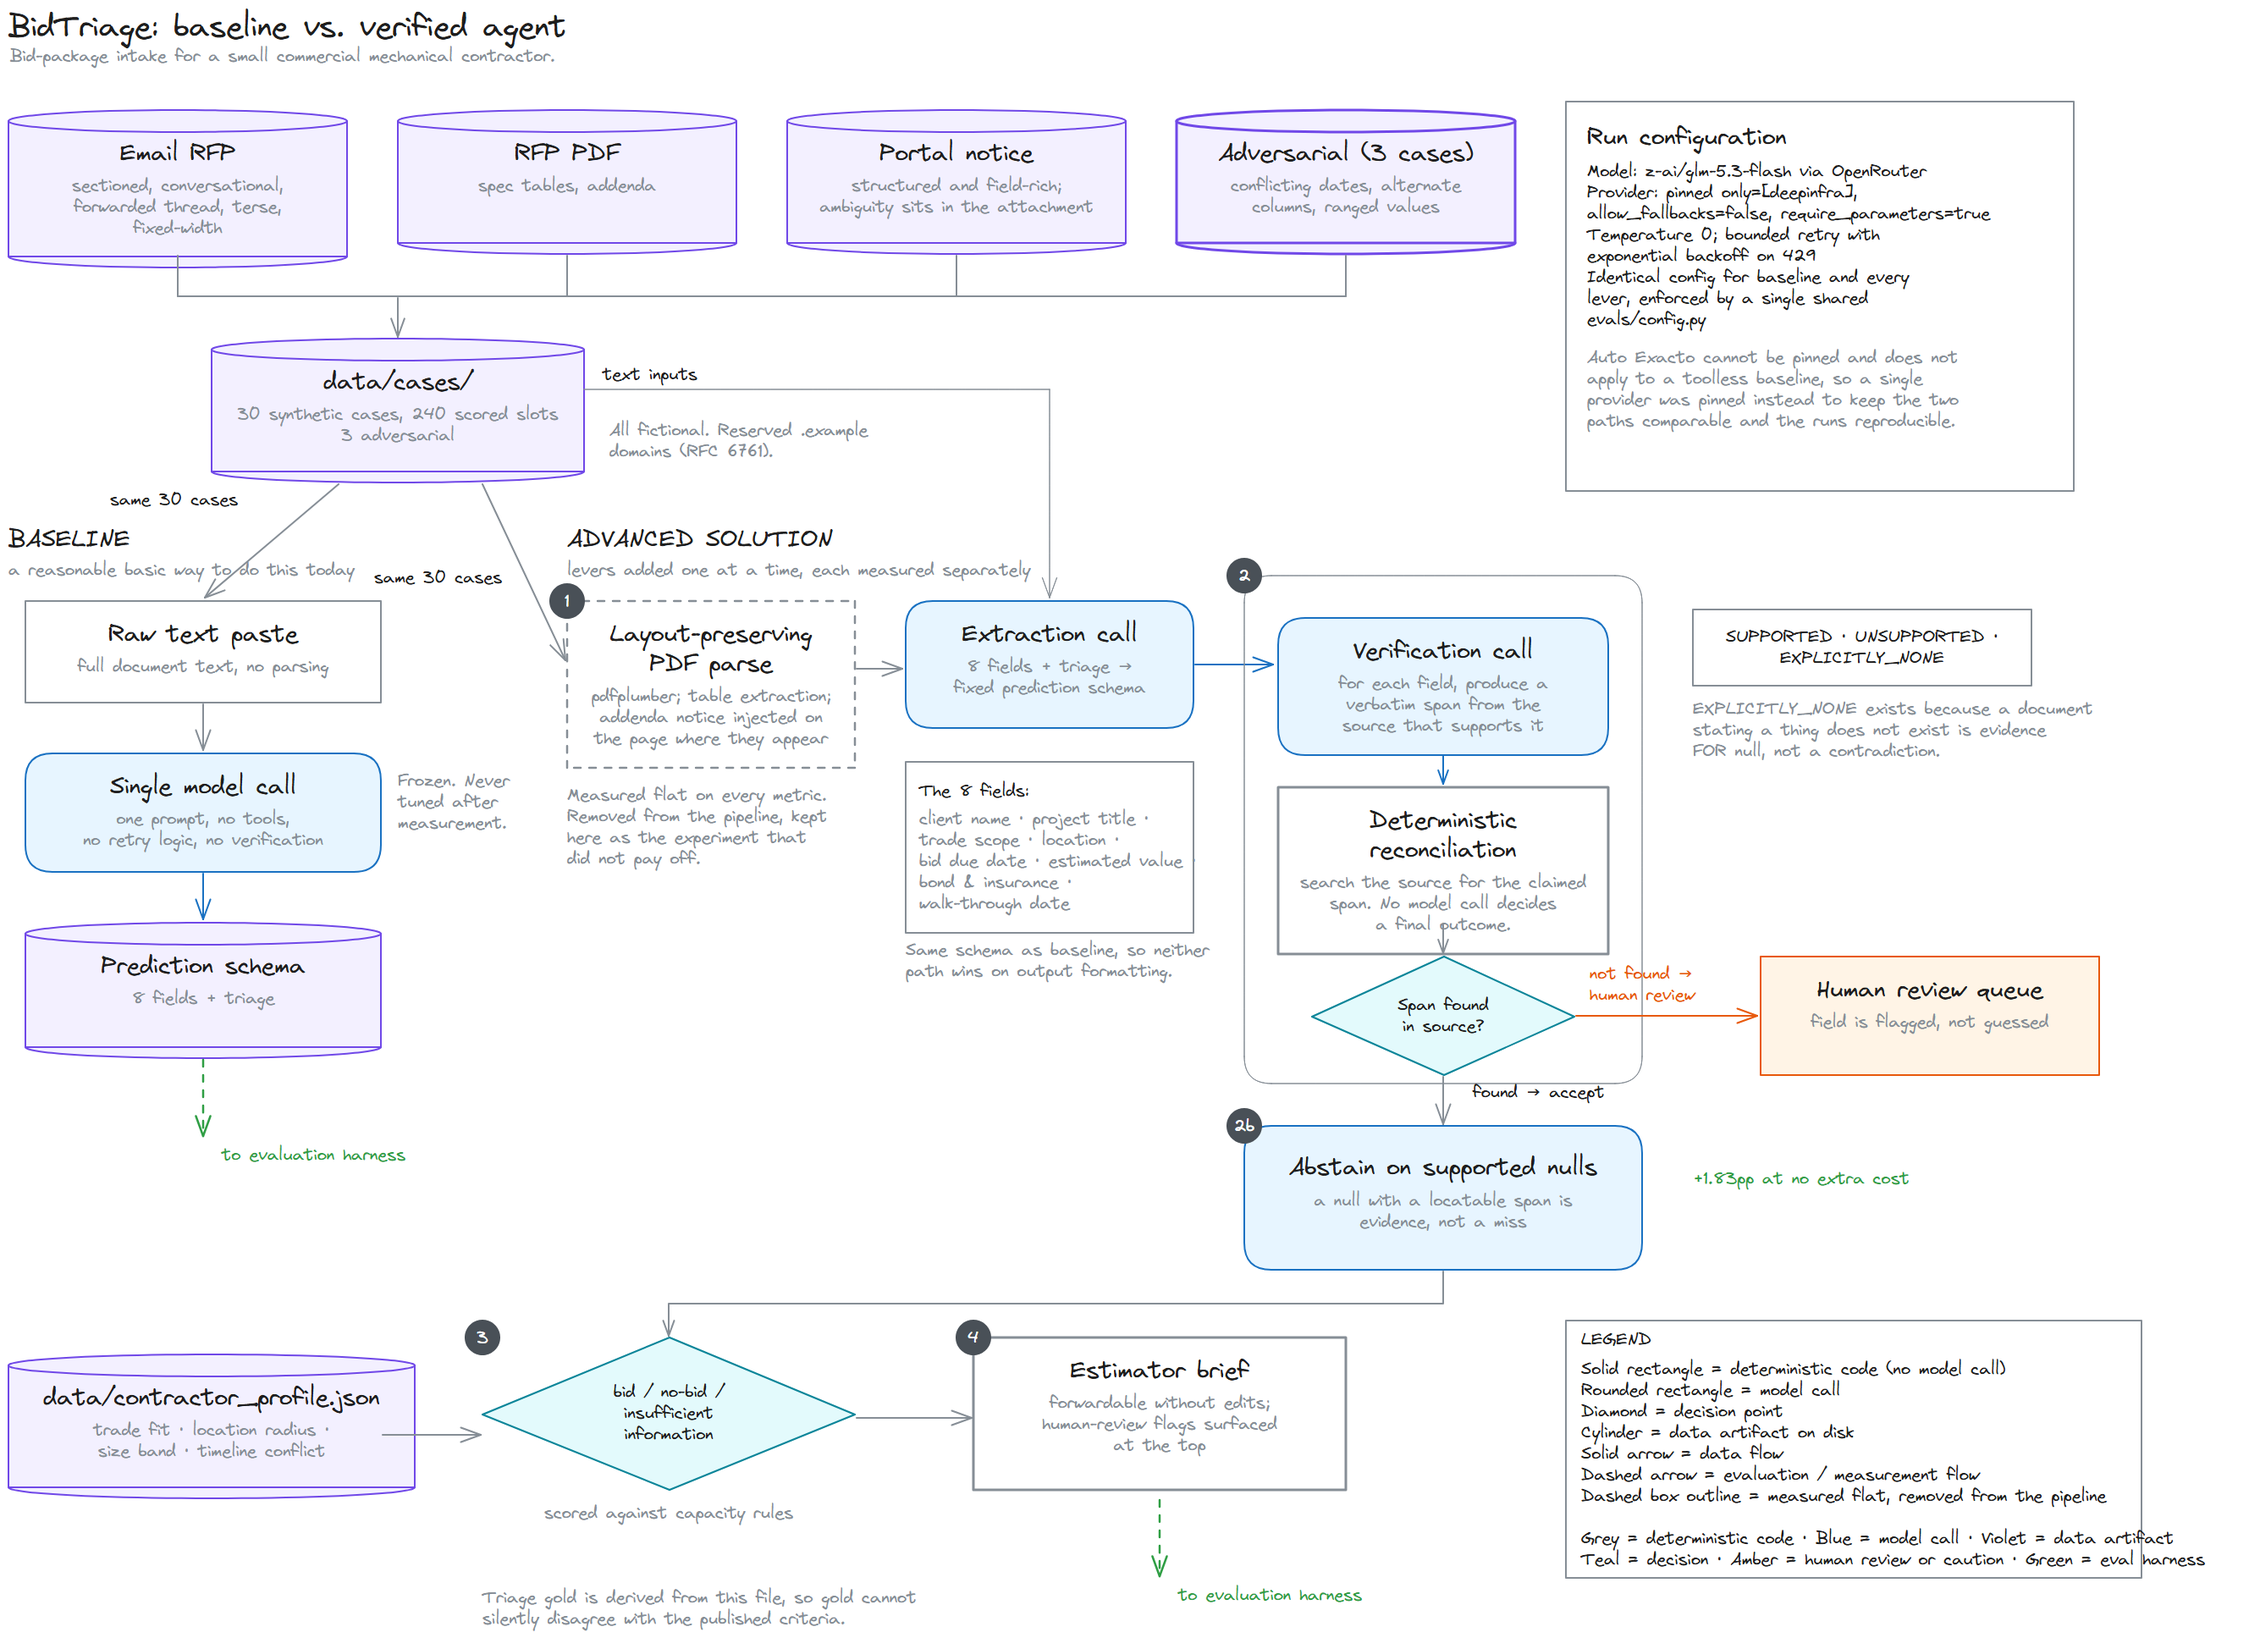
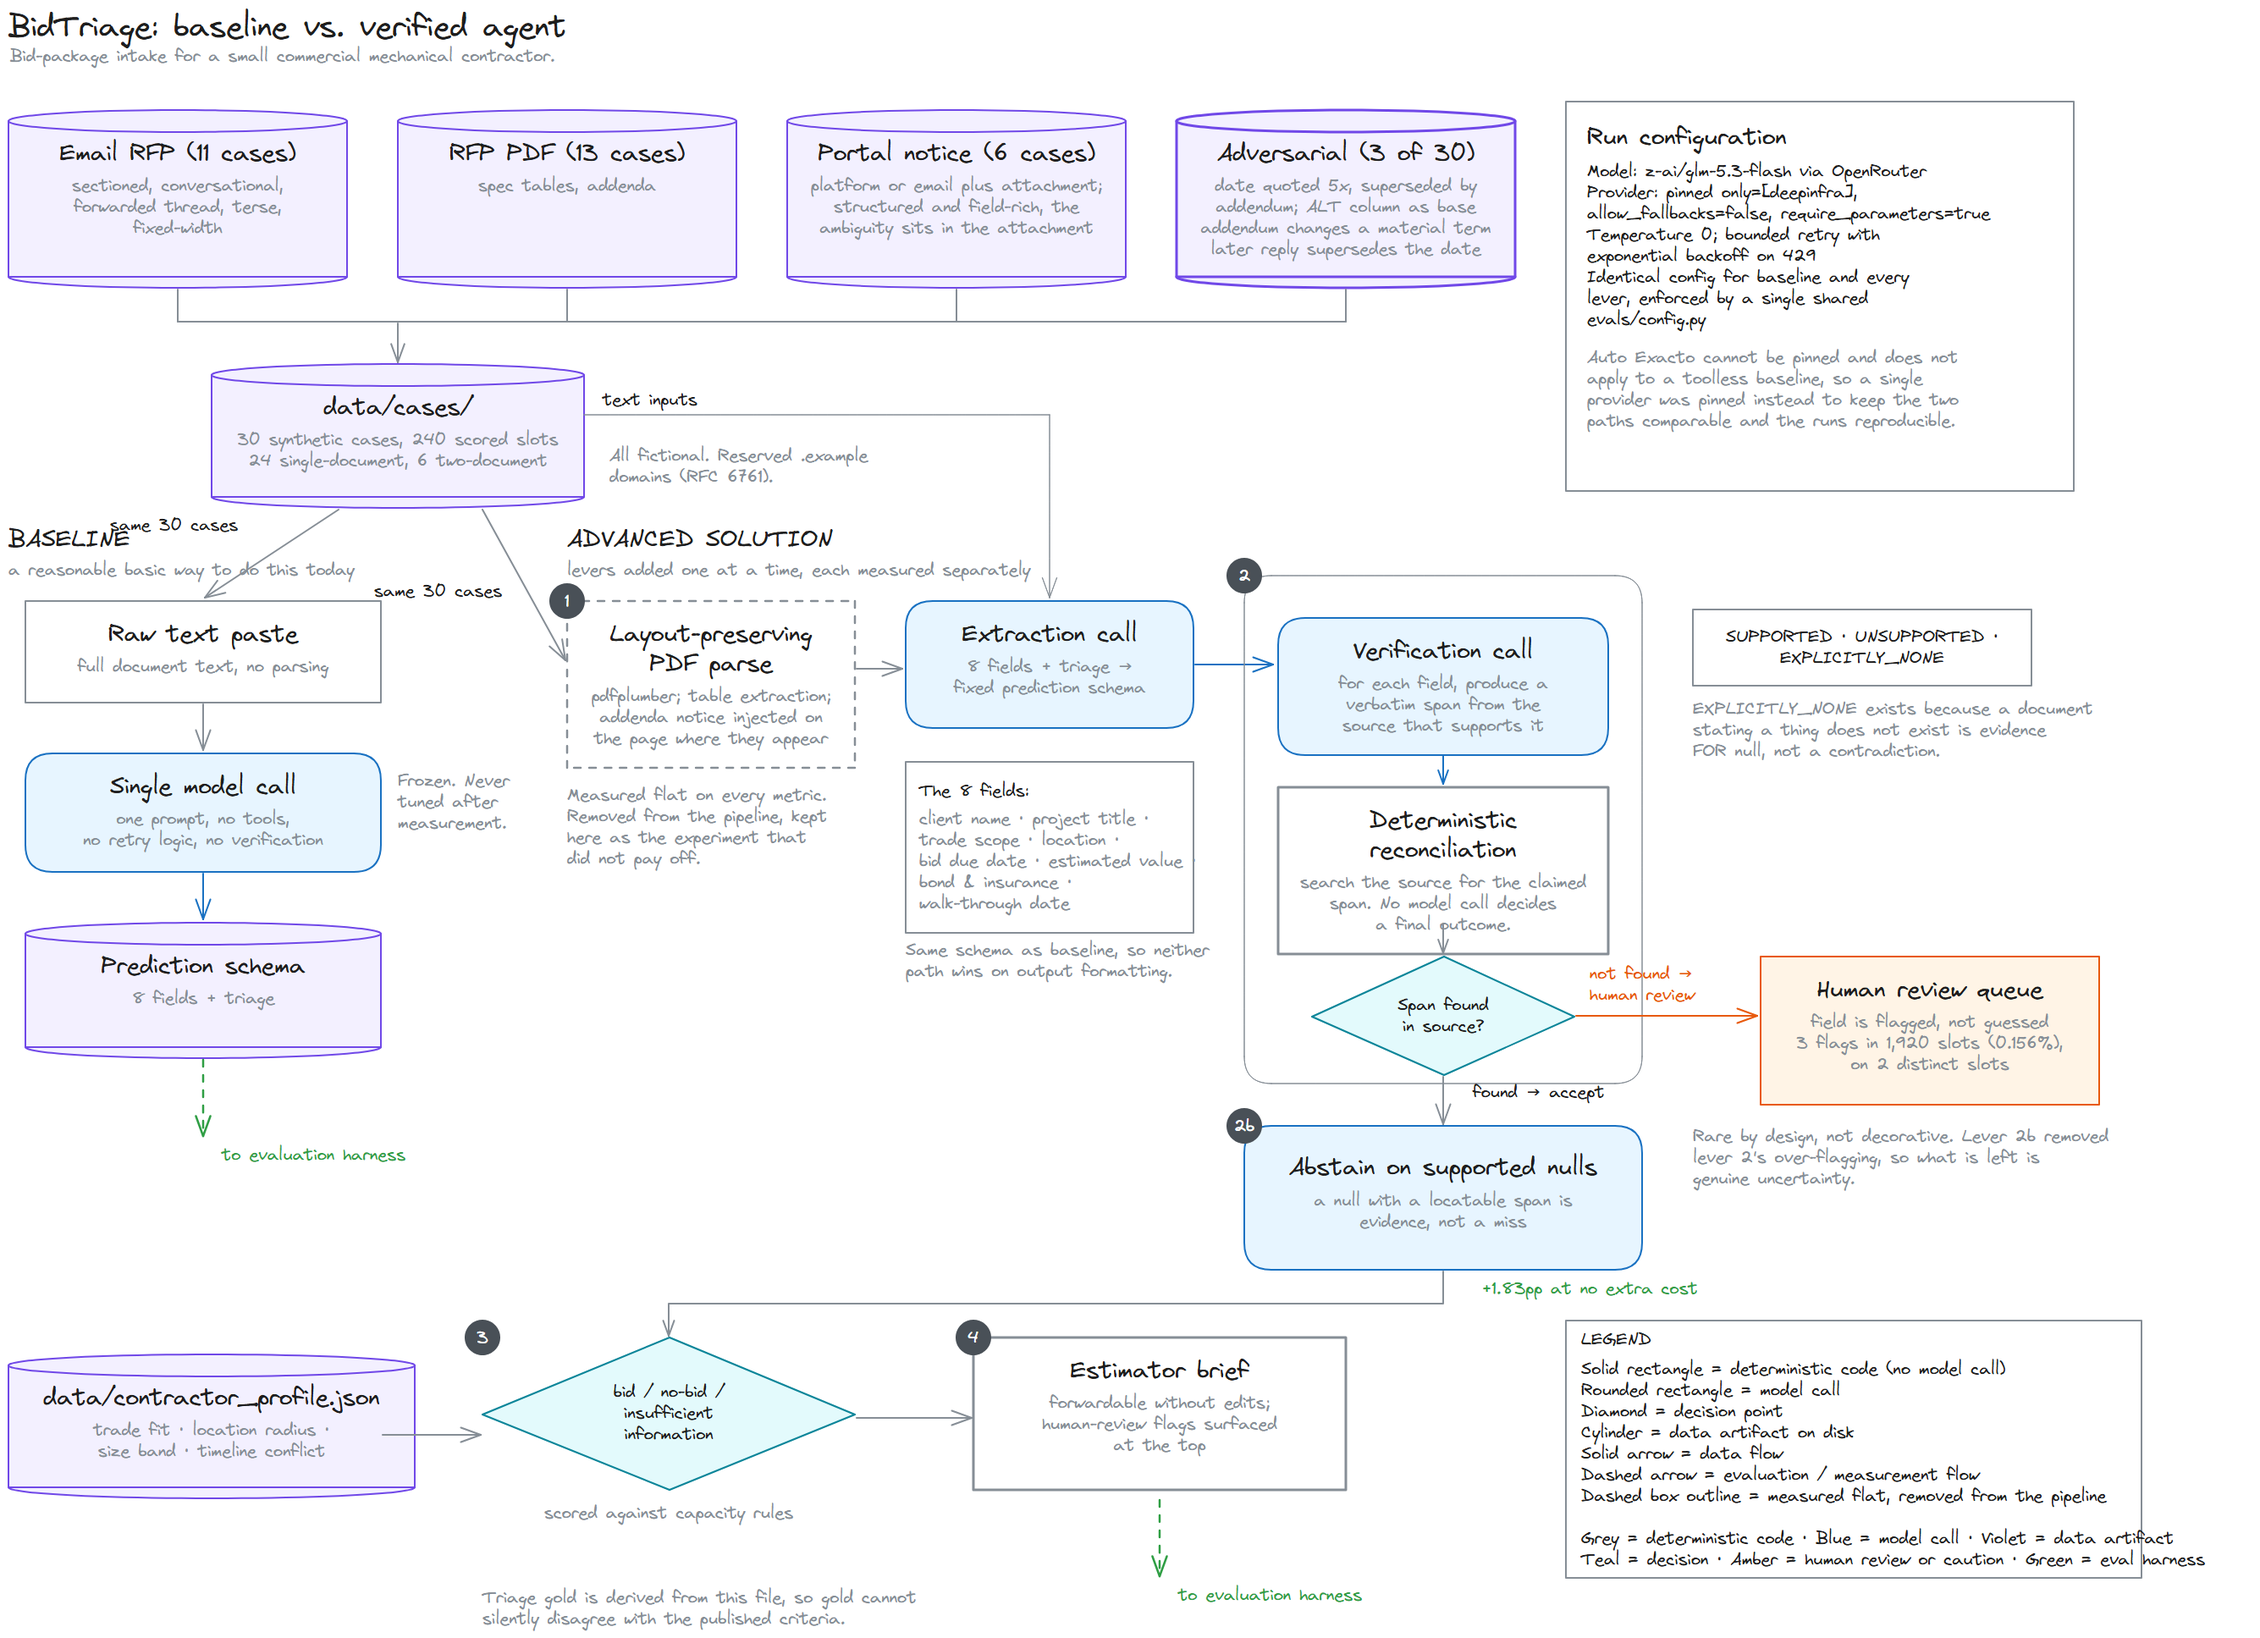
Clean scoring-rules dashes and finish the consistency pass
scoring-rules.md: all 10 em dashes removed by rewriting. Definition-list
entries take colons, prose takes commas or restructured clauses. No dash
character substituted anywhere. Structure verified: 8 headings, 11 bullets, no
malformed tables.

The audit then found the lever verdicts table was the last real inconsistency.
It sat inside the v1 results section while citing v2 evidence for lever 1, still
described lever 4 as 'wiring in progress' after it was wired and measured,
called lever 3 'the only one so far' after lever 2b also cleared the bar, and
omitted lever 2b entirely. Rewritten to name the corpus behind every claim and
moved to sit after both result sections, where a reader reaches it having seen
both.

Three v1-only descriptions were also left behind now that v2 carries the final
measurement: the eval set section described only the 12-case corpus, the
pipeline paragraph said 'twelve synthetic cases', and the status row said the
v2 arms were n=5 when the headline arms are n=8. All scoped or corrected.

Full audit clean: zero em or en dashes in any authored document, zero malformed
tables, zero broken relative links, selftest passing, and both corpora
revalidating from source.

diff --git a/README.md b/README.md
@@ -53,7 +53,14 @@ Scoring is fully deterministic. There is no LLM judge anywhere in the harness.
 
 ## Eval set
 
-12 synthetic cases, **96 scored slots** (8 required fields by 12 cases).
+There are two corpora and both are kept. **v1** is the original 12 cases and 96
+scored slots, described below. **v2** is the revised and expanded set used for
+the final measurement: 30 cases, 240 scored slots, 18 document formats,
+including multi-part platform cases. See
+[`docs/corpus-v2-design.md`](docs/corpus-v2-design.md) for what changed and why,
+and the v2 results section for its numbers.
+
+### Corpus v1, 12 cases and 96 scored slots
 
 | Format | Cases | Notes |
 |---|---|---|
@@ -128,7 +135,7 @@ methodology, so it is treated as directional rather than as a constant.
 | 2. Baseline | done, measured over 8 runs |
 | 3. Eval harness | done |
 | 4. Solution levers | all four built and measured. Lever 1 measured flat and is the removed experiment |
-| 5. Corpus v2 | done: 30 cases, 240 slots, measured at n=5 across four arms |
+| 5. Corpus v2 | done: 30 cases, 240 slots. Headline arms measured at n=8, intermediate arms at n=5 |
 
 ## System design and measured results
 
@@ -146,9 +153,10 @@ methodology, so it is treated as directional rather than as a constant.
 > sources above. Every figure in the second diagram is also written out as a
 > table below, so the numbers stay readable however the image scales.
 
-**What the pipeline does.** Twelve synthetic cases, four input shapes (email
-RFPs, RFP PDFs, sparse portal notices, and one deliberately hard PDF), feed two
-paths. The **baseline** pastes the raw document text into a single model call
+**What the pipeline does.** Synthetic cases across several input shapes (email
+RFPs, RFP PDFs, platform invitations with attachments, and deliberately hard
+documents) feed two paths. The diagrams show the v1 set of twelve; the final
+measurement uses the v2 set of thirty. The **baseline** pastes the raw document text into a single model call
 with no tools, no retry logic, and no verification. The **solution** runs an
 extraction call, then a verification call, then a triage call, adding one lever
 at a time. Both paths emit the same fixed prediction schema and are scored by
@@ -234,15 +242,6 @@ is applied as written rather than relaxed once the numbers became suggestive.
 One statement about levels rather than deltas, which the rule does not cover:
 lever 2's mean hallucination of 1.88% is under the 2% target and the baseline's
 2.87% is not, at 3 of 8 runs versus 0 of 8.
-
-### Lever verdicts
-
-| Lever | State | Verdict |
-|---|---|---|
-| 1. Document parsing | built (`solution/parse.py`), **measured on v2** | **removed experiment.** Flat on every metric: field accuracy p=0.770, hallucination p=0.976, triage p=0.643, cost unchanged p=0.103. Predicted flat, because pdfplumber finds tables only in the clean RFPs that already score well and finds **zero** in the hard case whose quantity block is monospace text. Measured anyway, which mattered: the prediction had already been wrong once about whether the lever was wired at all. |
-| 2. Verification with span checking | measured, n=8 per arm | **not an improvement.** Both headline deltas are smaller than the run-to-run spread. The only statistically solid result is that it costs 3.1 times more. A revision to fix the case 12 regression is pending separate measurement. |
-| 3. Structured triage | measured, n=8 per arm | **improvement, and the only one so far.** Triage 89.58% to 100.00%, zero variance across 8 runs, p=0.000, clearing the 8.33 noise floor. Verified model-driven: the model agreed with the boolean rule on 96 of 96 decisions and the rule corrected it zero times. |
-| 4. Estimator brief | built (`solution/brief.py`), wiring in progress | no measurable effect on the field metrics by construction, since it renders already-verified fields and makes no model call. Judged on whether it is forwardable without edits. |
 
 ### Corpus v2 results, 30 cases and 240 slots (headline arms n = 8, others n = 5)
 
@@ -351,6 +350,19 @@ Exported briefs for all three are in [`docs/sample-briefs/`](docs/sample-briefs/
 **On v2 the baseline already meets both frozen targets**, 96.83% accuracy
 against 90% and 1.07% hallucination against 2%. The remaining headroom is
 almost entirely triage, which is where lever 3 delivers.
+
+### Lever verdicts, across both corpora
+
+Each row names the corpus its evidence comes from, because the same lever does
+not always give the same answer on both.
+
+| Lever | Measured on | Verdict |
+|---|---|---|
+| **1. Document parsing** | v2, n=8 vs 5 | **Removed experiment.** Flat on every metric: field accuracy p=0.770, hallucination p=0.976, triage p=0.643, cost unchanged p=0.103. Predicted flat and measured anyway, which mattered, because the prediction had already been wrong once about whether the lever was wired at all. |
+| **2. Verification with span checking** | v1, n=8; v2, n=5 | **Superseded by 2b.** On v1 both headline deltas were within noise. On v2 it **regressed** field accuracy by 1.58pp (p=0.008), by converting 26 missed slots into 42 flagged ones. Kept as an arm so the before and after remain comparable. |
+| **2b. Verification, revised** | v2, n=5 standalone and n=8 in the final stack | **Improvement over lever 2.** Abstains when the verifier marks a field supported, returns null, and produces a span that locates in the source. Field accuracy 95.67% to 97.50% in the full stack, +1.83pp, p=0.008, at no extra cost (p=0.944). |
+| **3. Structured triage** | v1, n=8; v2, n=8 | **The win, and it replicates.** v1 triage +9.38pp; v2 +19.58pp at p=0.000155 with the two arms completely disjoint. Verified model-driven both times: the model agreed with the boolean rule on 96 of 96 decisions on v1 and 234 of 239 on v2. |
+| **4. Estimator brief** | v2, in the final stack | **No measurable effect on the field metrics by construction**, since it renders already-verified fields and makes no model call. Judged as an artifact instead: see [`docs/sample-briefs/`](docs/sample-briefs/). |
 
 ### Two findings that shape the project
 

diff --git a/docs/scoring-rules.md b/docs/scoring-rules.md
@@ -24,28 +24,28 @@ Eight required fields per case, 12 cases -> **96 scored slots**.
 
 ### Match rule definitions
 
-- **`normalized_string`** — casefold, collapse internal whitespace, strip
+- **`normalized_string`**: casefold, collapse internal whitespace, strip
   leading/trailing punctuation, drop a trailing corporate suffix
   (`inc`, `llc`, `ltd`, `corp`) before comparison. Then exact equality.
   `co` is deliberately NOT a stripped suffix: it is also the Colorado state
   abbreviation, and stripping it truncated `denver, co` to `denver`.
-- **`us_city_state`** (`location` only) — reduce to `city, st`, taking the
+- **`us_city_state`** (`location` only): reduce to `city, st`, taking the
   trailing `City, ST` match. A target answering "Cascade Ridge Middle School,
   Arvada, CO" has found the right place and named the building too; city+state
   is the unit the radius check keys on, since the profile's distance table is
   keyed exactly that way. Extra site detail neither helps nor hurts.
-- **`iso_date`** — both sides parsed to `YYYY-MM-DD`. Accepts ISO datetimes
+- **`iso_date`**: both sides parsed to `YYYY-MM-DD`. Accepts ISO datetimes
   (`2026-09-25T14:00:00-06:00`), ISO dates, `September 25, 2026`, `25 September
   2026`, and `9/25/2026`. Time-of-day is carried in gold under
   `extra.time_local` but is **not scored**.
-- **`currency_interval`** — normalized to `{low, high, currency}` as integer USD.
+- **`currency_interval`**: normalized to `{low, high, currency}` as integer USD.
   A point estimate is the degenerate interval `low == high`. Exact equality of
   both bounds. `"$1.2M"`, `"1,200,000"`, and `"approximately $1.2 million"` all
   normalize to `1200000`.
-- **`token_set`** — set equality against the closed trade vocabulary:
+- **`token_set`**: set equality against the closed trade vocabulary:
   `hvac`, `plumbing`, `piping`, `sheet_metal`, `controls`, `refrigeration`,
   `fire_protection`. Any token outside the vocabulary makes the field wrong.
-- **`bond_dict`** — see section 2.
+- **`bond_dict`**: see section 2.
 
 ## 2. `bond_insurance` (compound field, binary score)
 
@@ -61,7 +61,7 @@ Gold stores a **normalized dict**, not formatted tokens:
   `"$2M"`, `"2,000,000"`, and `"two million"` for `gl_limit_usd`.
 - **"None required" is an explicit assertion.** Where no bonding is required,
   gold is `{"required": false}` and the system must positively state that.
-  A `null`, an omitted field, or "not found" scores **wrong** — not abstained.
+  A `null`, an omitted field, or "not found" scores **wrong** rather than abstained.
 - Scoring is **all-or-nothing on the full dict**. One wrong GL limit fails the
   field.
 - **Key-set convention.** Keys not stated in the source are **omitted** from the
@@ -92,13 +92,13 @@ lever would be self-scoring. It is not free.
 
 ## 4. Metrics
 
-**Primary — field accuracy** (target >= 90%):
+**Primary metric, field accuracy** (target >= 90%):
 
 ```
 (correct + correct_abstention) / 96
 ```
 
-**Secondary — hallucination rate** (target <= 2%):
+**Secondary metric, hallucination rate** (target <= 2%):
 
 ```
 judged:      (incorrect + hallucinated) / asserted
@@ -110,7 +110,7 @@ figure is logged in the results JSON as a **diagnostic only**, so both views are
 auditable. The harness prints **the asserted-field count alongside the rate on
 every run**, so a shrinking denominator can never hide behind a falling rate.
 
-**Secondary — minutes per intake:** a transparent proxy, **not** a measured
+**Secondary metric, minutes per intake:** a transparent proxy, **not** a measured
 human time. Constants live in `evals/harness/minutes.py` and are fixed before
 measurement. It is reported as a proxy everywhere it appears, and no claim in
 this repo asserts observed human time.
